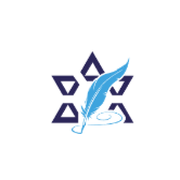
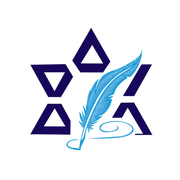
Лого: новая эмблема из лого1.pdf, без белого фона, версия для тёмной темы
- public/logo.png: эмблема вырезана из PDF владельца (261x256 вместо 96x82),
  белый фон убран; public/logo-dark.png — светлая звезда для тёмной темы.
- components/ui/InstitutionLogo: обе версии, переключение CSS-классами
  по схеме тем (prefers-color-scheme + data-theme).
- Шапка, сайдбар — через InstitutionLogo; /apply — обычная версия.
- Новое: эмблема на экране входа (вместо шапочки), в квитанции (при печати
  всегда обычная), иконка вкладки app/icon.png (раньше /favicon.ico — 404).
- Иконки PWA/пушей и apple-icon пересобраны из новой эмблемы.

Claude-Session: https://claude.ai/code/session_01HXEVcxAZiDpPAuFaHJUZdN

Changed region(s): [[0.1667, 0.1389, 0.8611, 0.8333]]

diff --git a/app/dashboard/finance/receipt/[paymentId]/ReceiptClient.tsx b/app/dashboard/finance/receipt/[paymentId]/ReceiptClient.tsx
@@ -4,6 +4,7 @@ import { useTranslations, useLang } from '@/lib/i18n/LanguageContext'
 import { intlLocale } from '@/lib/i18n/format-date'
 import { formatMoney } from '@/lib/finance/money'
 import { useSafeBack } from '@/lib/hooks/useSafeBack'
+import { InstitutionLogo } from '@/components/ui/InstitutionLogo'
 
 interface Payment {
   id: string
@@ -91,6 +92,9 @@ export default function ReceiptClient({ payment, journeyId, studentName, student
       }}>
         {/* Шапка */}
         <div style={{ textAlign: 'center', borderBottom: '2px solid var(--accent-strong)', paddingBottom: 16, marginBottom: 20 }}>
+          <div style={{ display: 'flex', justifyContent: 'center', marginBottom: 10 }}>
+            <InstitutionLogo height={56} />
+          </div>
           <div style={{ fontSize: 20, fontWeight: 700, color: 'var(--text)' }}>{t('institution')}</div>
           <div style={{ fontSize: 15, fontWeight: 600, color: 'var(--accent-strong)', marginTop: 6 }}>{t('title')}</div>
           <div style={{ fontSize: 12, color: 'var(--text-faint)', marginTop: 4 }}>
@@ -141,6 +145,9 @@ export default function ReceiptClient({ payment, journeyId, studentName, student
       <style>{`
         @media print {
           .receipt-actions { display: none !important; }
+          /* На бумаге фон не печатается — всегда обычная (тёмно-синяя) эмблема. */
+          .receipt-sheet .brand-logo-dark { display: none !important; }
+          .receipt-sheet .brand-logo-light { display: block !important; }
           .receipt-sheet {
             box-shadow: none !important;
             border: none !important;

diff --git a/components/ui/InstitutionLogo.tsx b/components/ui/InstitutionLogo.tsx
@@ -1,0 +1,38 @@
+import Image from 'next/image'
+
+/**
+ * Эмблема мокона (звезда с пером). Исходник — лого1.pdf владельца, эмблема
+ * вырезана и очищена от белого фона. Две версии: обычная (тёмно-синяя звезда)
+ * и для тёмной темы (светлая звезда) — переключаются CSS-классами из
+ * globals.css по той же схеме, что и токены темы. `themed={false}` — для
+ * страниц без тёмной темы (публичная /apply), там всегда обычная версия.
+ */
+const RATIO = 261 / 256
+
+export function InstitutionLogo({
+  height,
+  alt = '',
+  priority = false,
+  themed = true,
+  className,
+}: {
+  height: number
+  alt?: string
+  priority?: boolean
+  themed?: boolean
+  className?: string
+}) {
+  const width = Math.round(height * RATIO)
+  const style = { height, width: 'auto', objectFit: 'contain' as const, flexShrink: 0 }
+  if (!themed) {
+    return <Image src="/logo.png" alt={alt} width={width} height={height} priority={priority} className={className} style={style} />
+  }
+  return (
+    <>
+      <Image src="/logo.png" alt={alt} width={width} height={height} priority={priority}
+        className={`brand-logo-light ${className ?? ''}`} style={style} />
+      <Image src="/logo-dark.png" alt={alt} width={width} height={height} priority={priority}
+        className={`brand-logo-dark ${className ?? ''}`} style={style} />
+    </>
+  )
+}

diff --git a/app/(auth)/login/page.tsx b/app/(auth)/login/page.tsx
@@ -4,6 +4,7 @@ import ruMessages from '@/messages/ru.json'
 import heMessages from '@/messages/he.json'
 import enMessages from '@/messages/en.json'
 import LoginForm from './LoginForm'
+import { InstitutionLogo } from '@/components/ui/InstitutionLogo'
 
 const messagesByLocale = { ru: ruMessages, he: heMessages, en: enMessages }
 
@@ -22,17 +23,8 @@ export default function LoginPage() {
       <div style={{ width: '100%', maxWidth: 400 }}>
 
         <div style={{ textAlign: 'center', marginBottom: 28 }}>
-          <div style={{
-            width: 56, height: 56, margin: '0 auto 16px', borderRadius: 16,
-            background: 'linear-gradient(135deg, var(--accent) 0%, var(--accent-strong) 100%)',
-            display: 'flex', alignItems: 'center', justifyContent: 'center',
-            boxShadow: 'var(--shadow)',
-          }}>
-            <svg width="30" height="30" viewBox="0 0 24 24" fill="none" stroke="#fff" strokeWidth={1.6}
-              strokeLinecap="round" strokeLinejoin="round" aria-hidden="true">
-              <path d="M22 10L12 5 2 10l10 5 10-5z" />
-              <path d="M6 12v5c0 1 2.5 2.5 6 2.5s6-1.5 6-2.5v-5" />
-            </svg>
+          <div style={{ display: 'flex', justifyContent: 'center', marginBottom: 16 }}>
+            <InstitutionLogo height={72} priority />
           </div>
           <h1 style={{ fontSize: 24, fontWeight: 700, color: 'var(--text)', margin: 0, letterSpacing: '-0.01em' }}>
             {t.campus_title}

diff --git a/app/apply/page.tsx b/app/apply/page.tsx
@@ -223,7 +223,7 @@ export default function ApplyPage() {
       <header className="ap-topbar">
         <div className="ap-topbar-in">
           <div className="ap-brand">
-            <Image src="/logo.png" alt="" className="ap-logo" width={44} height={38} priority />
+            <Image src="/logo.png" alt="" className="ap-logo" width={39} height={38} priority />
             <div>
               <div className="ap-brand-name">{g.campusNameShort}</div>
               <div className="ap-brand-sub">{t('campus_title')}</div>
@@ -461,7 +461,7 @@ export default function ApplyPage() {
       {/* ── Footer ───────────────────────────────────────────────── */}
       <footer className="ap-foot">
         <div className="ap-foot-in">
-          <Image src="/logo.png" alt="" className="ap-foot-logo" width={52} height={44} />
+          <Image src="/logo.png" alt="" className="ap-foot-logo" width={45} height={44} />
           <div className="fname">{t('campus_title')}</div>
           <div className="fnote"><span className="ap-dot" /> © {t('footer_note')}</div>
         </div>

diff --git a/components/dashboard/Header.tsx b/components/dashboard/Header.tsx
@@ -1,6 +1,6 @@
 'use client'
 
-import Image from 'next/image'
+import { InstitutionLogo } from '@/components/ui/InstitutionLogo'
 import Link from 'next/link'
 import { useState, useRef, useEffect } from 'react'
 import { useRouter } from 'next/navigation'
@@ -98,8 +98,7 @@ export default function Header({ userName, roles }: HeaderProps) {
         className="flex items-center gap-3 flex-shrink-0"
         style={{ borderInlineStart: '3px solid #4BAED4', paddingInlineStart: 12 }}
       >
-        <Image src="/logo.png" alt={tNav('logo_alt')} width={47} height={40} priority
-          style={{ height: 40, width: 'auto', objectFit: 'contain', flexShrink: 0 }} />
+        <InstitutionLogo height={40} alt={tNav('logo_alt')} priority />
         <span
           className="hidden lg:block"
           style={{ color: 'var(--accent-strong)', fontSize: 11, fontWeight: 600, whiteSpace: 'nowrap' }}

diff --git a/components/dashboard/Sidebar.tsx b/components/dashboard/Sidebar.tsx
@@ -1,6 +1,6 @@
 'use client'
 
-import Image from 'next/image'
+import { InstitutionLogo } from '@/components/ui/InstitutionLogo'
 import { useEffect, useRef, useState } from 'react'
 import Link from 'next/link'
 import { usePathname } from 'next/navigation'
@@ -509,8 +509,7 @@ export default function Sidebar() {
       >
         {isOpen && (
           <div className="flex items-center gap-2 overflow-hidden flex-1 min-w-0">
-            <Image src="/logo.png" alt="" width={30} height={26} priority
-              style={{ height: 26, width: 'auto', objectFit: 'contain', flexShrink: 0 }} />
+            <InstitutionLogo height={26} priority />
             <span style={{ fontSize: 10, fontWeight: 700, color: 'var(--accent-strong)', whiteSpace: 'nowrap', overflow: 'hidden', textOverflow: 'ellipsis' }}>
               {t.campusNameShort}
             </span>

diff --git a/app/manifest.ts b/app/manifest.ts
@@ -3,7 +3,8 @@ import type { MetadataRoute } from 'next'
 /**
  * PWA-манифест: даёт «Установить приложение» / «Добавить на главный экран» на
  * телефоне — система открывается в отдельном окне без адресной строки, со своей
- * иконкой. Иконки сгенерированы из public/logo.png с безопасными полями
+ * иконкой. Иконки сгенерированы из эмблемы public/logo.png (вырезана из лого1.pdf)
+ * на белом фоне с безопасными полями
  * (одни файлы годятся и как maskable для круглой маски Android).
  */
 export default function manifest(): MetadataRoute.Manifest {

diff --git a/app/globals.css b/app/globals.css
@@ -740,3 +740,13 @@ p { text-wrap: pretty; }
   display: flex;
   gap: 2px;
 }
+
+/* Эмблема (components/ui/InstitutionLogo): в тёмной теме — версия со светлой
+   звездой, иначе тёмно-синяя звезда теряется на тёмном фоне. */
+.brand-logo-dark { display: none; }
+@media (prefers-color-scheme: dark) {
+  :root:not([data-theme="light"]) .brand-logo-light { display: none; }
+  :root:not([data-theme="light"]) .brand-logo-dark { display: block; }
+}
+:root[data-theme="dark"] .brand-logo-light { display: none; }
+:root[data-theme="dark"] .brand-logo-dark { display: block; }
